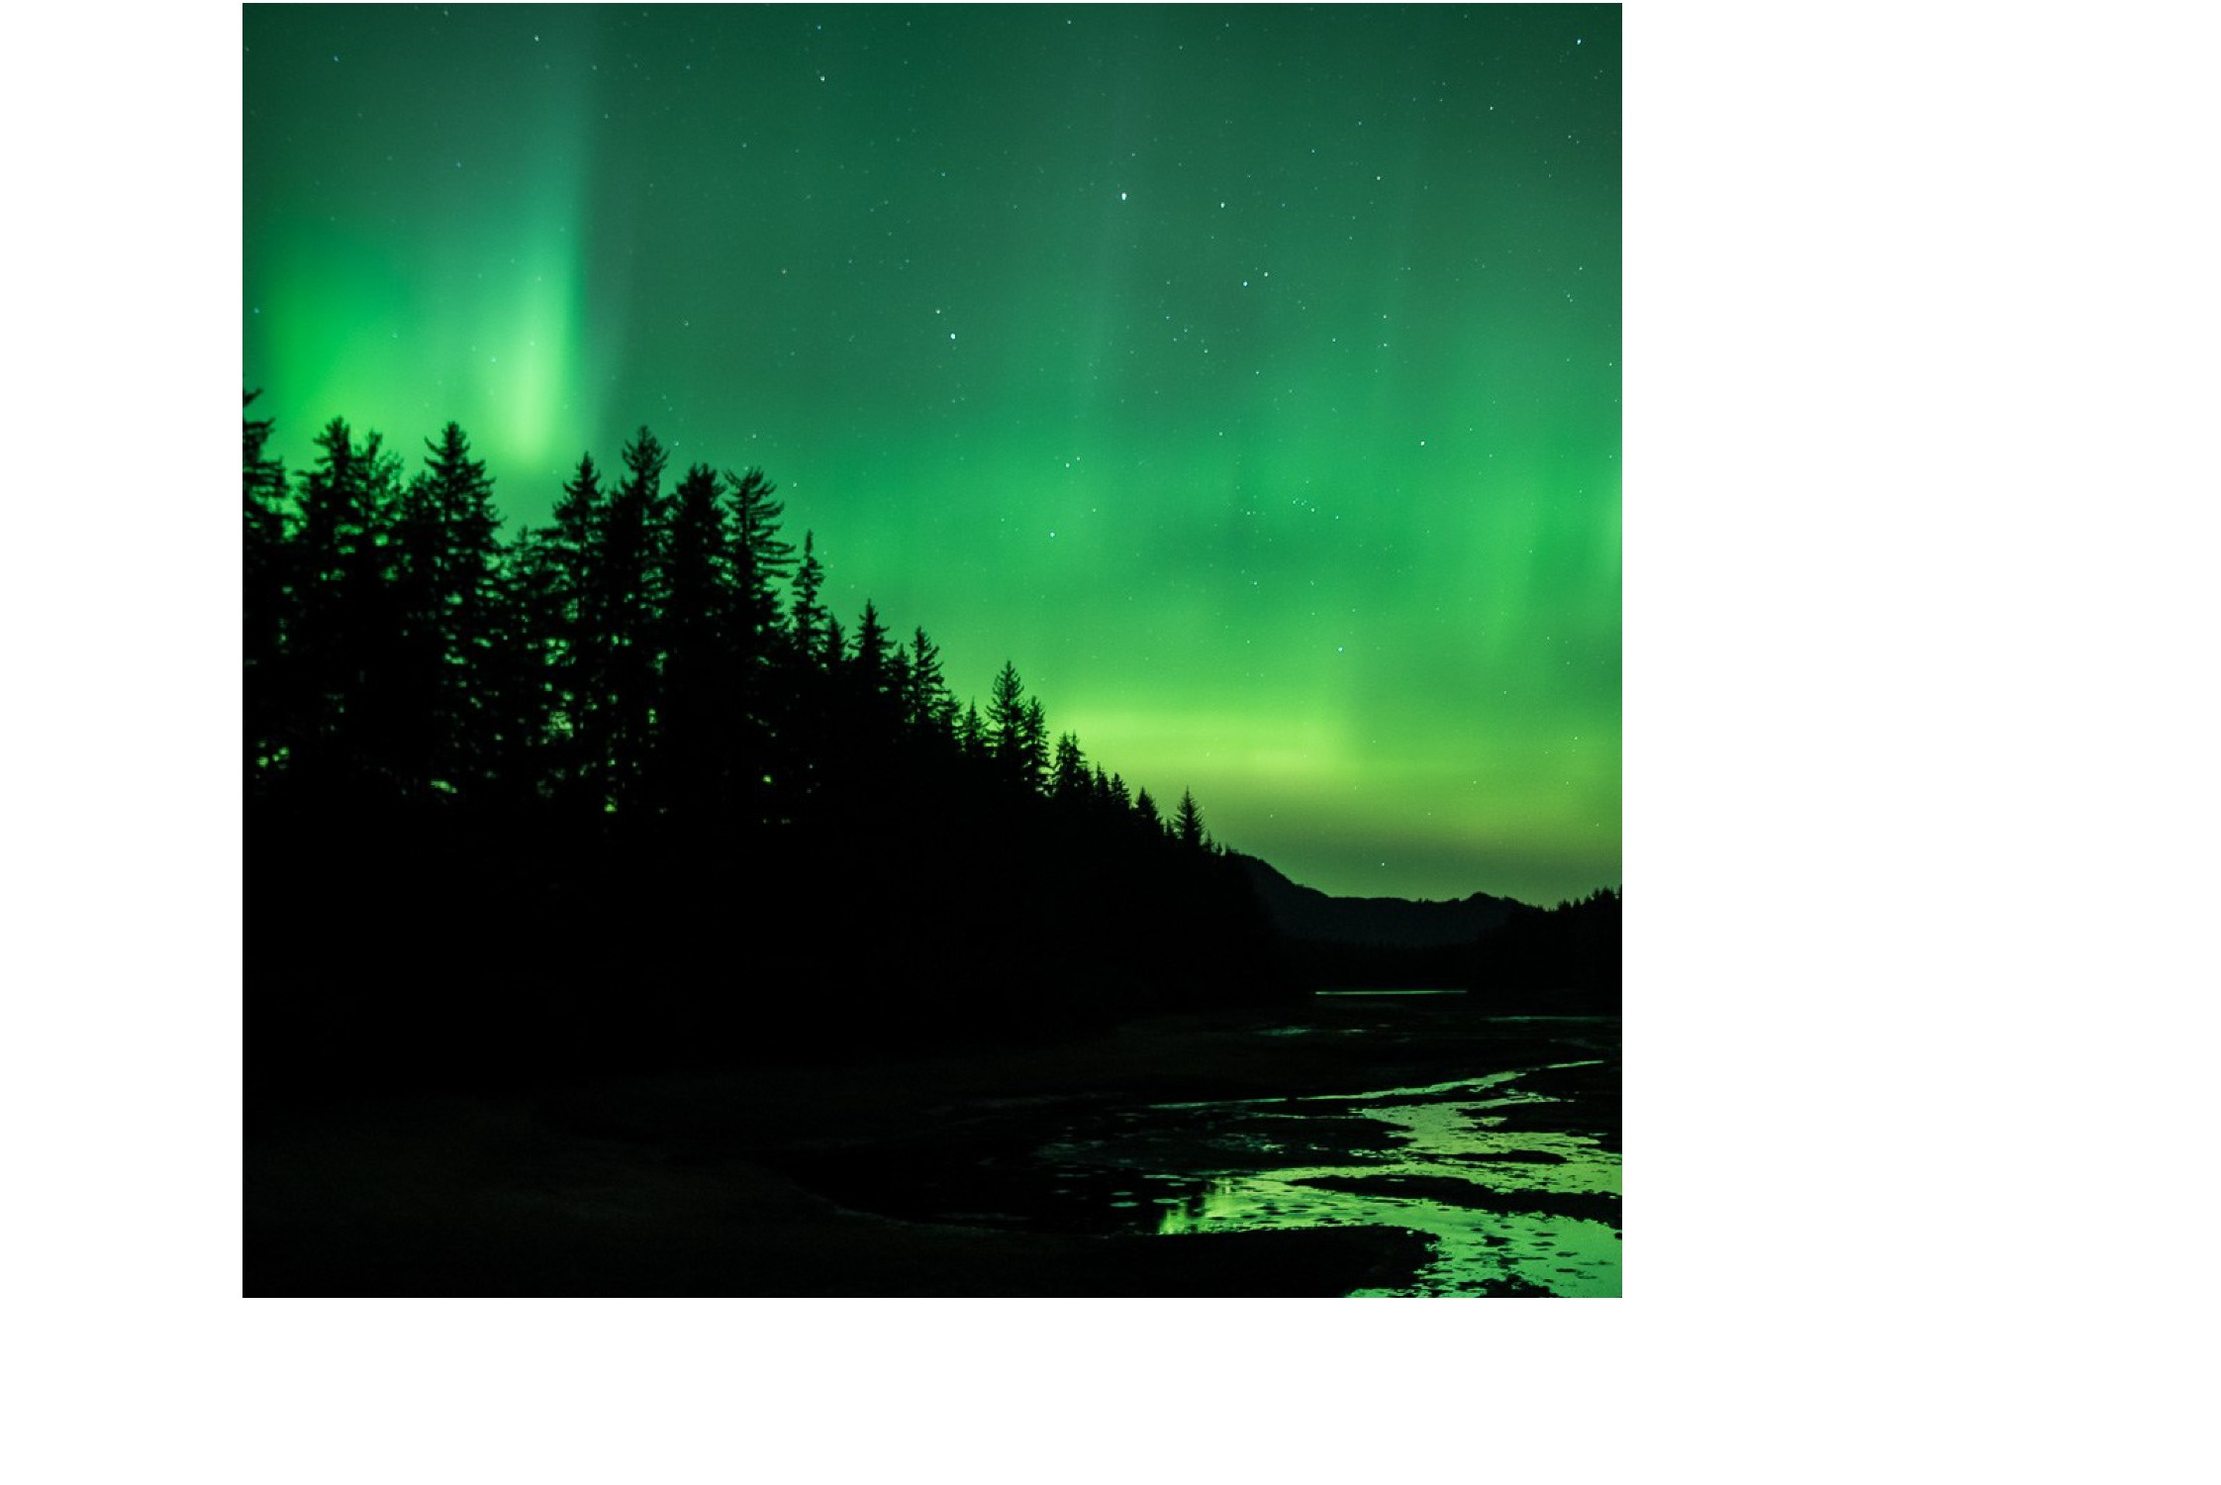
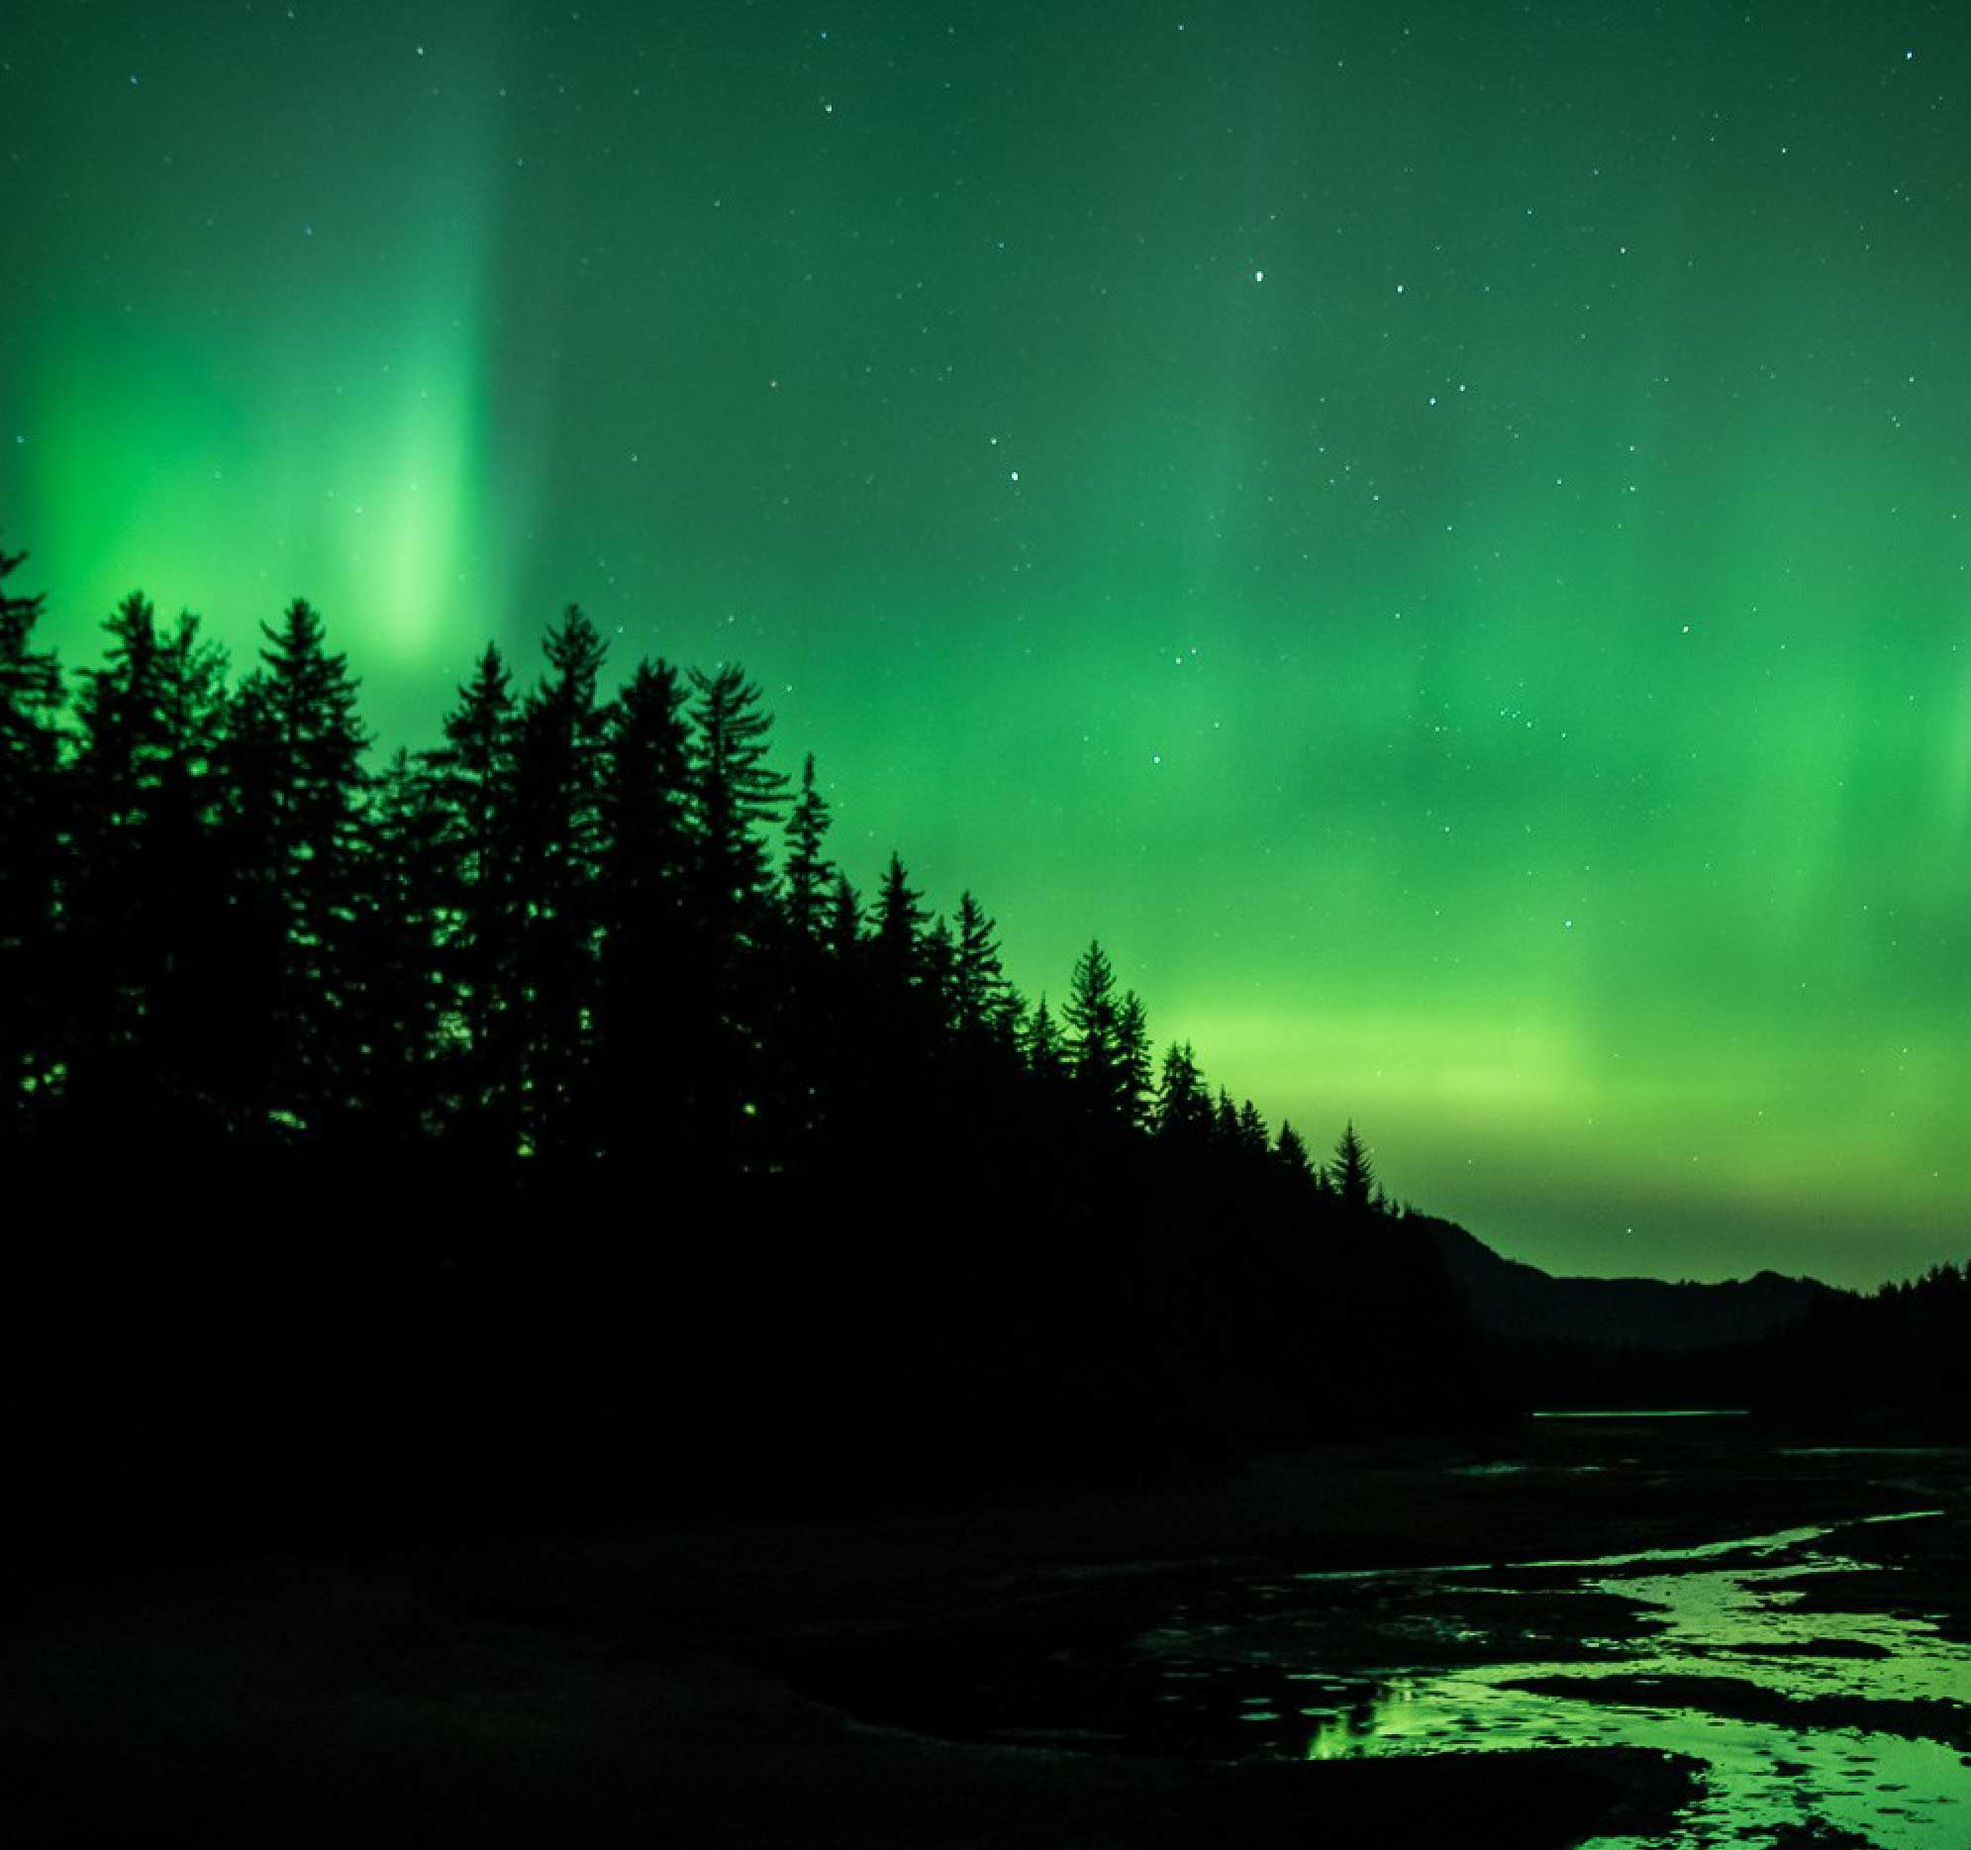
work on dashboard

diff --git a/hnfp/templates/hnfp/dashboard.html b/hnfp/templates/hnfp/dashboard.html
@@ -2,37 +2,20 @@
 {% load static %}
 
 {% block outer_content %}
-<main>
-  <div class="parallax-container">
-    <div class="parallax">
-      <img src="{% static 'hnfp/img/bg_mountain.jpg' %}">
-    </div>
-    <section class="row hero">
-      <div class="col s10 m8 offset-s1 offset-m2">
-        <h2>{{ tagline }}</h2>
-        <a href="/survey" class="waves-effect waves-light btn-large">{{ cta }} <i class="material-icons right">launch</i></a>
-      </div>
-    </section>
-  </div>
+<main class="dashboard">
+  <div class="bg">&nbsp;</div>
   <section class="section white">
     <div class="section-top-bg">
       <img src="{% static 'hnfp/img/mountain_ridge_white.svg' %}" class="section-top-bg-img">
     </div>
     <div class="row container">
-      <div class="col s12 center flow-text">
-        <h1>Coming together to create a shared vision for our lands.</h1>
+      <aside class="col s12 l4 flow-text">
+        <a class="btn" href="#">Invite friends</a>
+      </aside>
+      <div class="col s12 l8 flow-text">
+        <h3>Weather &amp; Marine Conditions</h3>
       </div>
-      <div class="col s10 offset-s1 l6 offset-l3 center flow-text">
-        <p>Lorem ipsum dolor sit amet, consectetuer adipiscing elit, sed diam nonummy nibh euis mad mod tincidunt ut laoreet dolore magna aliquam erat volutpat. Ut wisi enim ad Lorem ipsum dolor sit amet, consectetuer adipiscing elit, sed diam nonummy nibh euismod tincidunt ut dolor sit amet, consectetuer adipiscing elit, sed diam nonummy nibh euismod tincidunt ut dolor sit amet, consectetuer adipiscing elit, sed diam nonummy nibh euismod tincidunt ut.</p>
-      </div>
-    </div>
-    <div class="row container">
-      <div class="col s12 center flow-text">
-        <h3>What can you do as a steward?</h3>
-        <span>A statement about privacy.</span>
-      </div>
-    </div>
-    <div class="row container flow-text center">
+
       <div class="col s5 l3">
         <img src="//placebear.com/200/200" class="circle responsive-img" />
         <p>Take the survey that will help inform future land use decisions</p>

diff --git a/hnfp/static/hnfp/css/style.css b/hnfp/static/hnfp/css/style.css
@@ -134,11 +134,6 @@ nav ul li a {
   home
   --------------------*/
 
-.parallax-container {
-  height: 42vh;
-  width: 100%;
-}
-
 .hero {
   color: #fff;
   padding-top: 8%;
@@ -174,6 +169,44 @@ nav ul li a {
 }
 
 /*--------------------
+  dashboard
+  --------------------*/
+
+.dashboard .bg {
+  height: 40vh;
+  position: relative;
+  width: 100%;
+}
+
+.dashboard .bg:before,
+.dashboard .bg:after {
+  content: '';
+  position: absolute;
+}
+
+.dashboard .bg:before {
+  background-image: url('/static/hnfp/hnfp/img/bg_mountain.jpg');
+  background-size: cover;
+  background-attachment: local;
+  background-position: 50%;
+  bottom: -2%;
+  left: -2%;
+  right: -2%;
+  top: -2%;
+  z-index: -1;
+}
+
+.dashboard .bg:after {
+  background-image: url('/static/hnfp/hnfp/img/mountain_ridge_white.svg');
+  background-size: cover;
+  bottom: -10%;
+  height: 25%;
+  left: -10%;
+  min-width: 150%;
+  z-index: -1;
+}
+
+/*--------------------
   survey
   --------------------*/
 
@@ -198,7 +231,7 @@ nav ul li a {
 }
 
 .survey-wrap:before {
-  background-image: url('/static/hnfp/hnfp/img/aurora@2x.png');
+  background-image: url('/static/hnfp/hnfp/img/aurora.jpg');
   background-size: cover;
   background-attachment: local;
   background-position: 50%;

diff --git a/hnfp/templates/hnfp/modal.html b/hnfp/templates/hnfp/modal.html
@@ -1,10 +1,14 @@
 <div id="modal1" class="modal">
-  <div class="modal-content">
-    <h4>Modal Header</h4>
-    <p>A bunch of text</p>
-    <a href="{% url 'account:index' %}?next={{ request.path }}">LOG IN <span class="fa fa-user"></span></a>
-  </div>
-  <div class="modal-footer">
-    <a href="#!" class="modal-action modal-close waves-effect waves-green btn-flat">Agree</a>
+  <div class="row">
+    <div class="col s12">
+      <div class="modal-content">
+        <h4>Modal Header</h4>
+        <p>A bunch of text</p>
+        <a href="{% url 'account:index' %}?next={{ request.path }}">LOG IN <span class="fa fa-user"></span></a>
+      </div>
+      <div class="modal-footer">
+        <a href="#!" class="modal-action modal-close waves-effect waves-green btn-flat">Agree</a>
+      </div>
+    </div>
   </div>
 </div>
